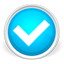
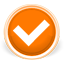
Finalized the final theme -- a nice forest green with tangy orange. Yay.........

diff --git a/Android/game-core/src/com/deengames/ilmica/screens/SetSelectionScreen.java b/Android/game-core/src/com/deengames/ilmica/screens/SetSelectionScreen.java
@@ -25,7 +25,7 @@ public class SetSelectionScreen extends Screen {
 		super.initialize();
 		
 		this.fadeOutImmediately();
-		this.addSprite("content/images/mainMenuBackground.jpg");
+		this.addSprite("content/images/mainBackground.jpg");
 		this.addSprite("content/images/choose-question-set.png");		
 		
 		String[] sets = DataHelper.getQuestionSetNames();
@@ -38,6 +38,7 @@ public class SetSelectionScreen extends Screen {
 			
 			t.setX(baseX);
 			t.setY(baseY + (VERTICAL_SPACE_BETWEEN_SETS * i));
+			t.setFontSize(24);
 			
 			t.setClickListener(new ClickListener() {
 				public void onClick(Clickable clicked) {

diff --git a/Android/game-core/src/com/deengames/ilmica/IlmicaGame.java b/Android/game-core/src/com/deengames/ilmica/IlmicaGame.java
@@ -34,8 +34,8 @@ import com.deengames.radiantwrench.utils.RadiantWrenchException;
 public class IlmicaGame extends Game implements ApplicationListener {
 	
 	public void create() {
-		//ScreenController.showScreen(new SplashScreen());
-		ScreenController.showScreen(new QuizScreen("Fundamentals of Tawheed 1.0"));
+		ScreenController.showScreen(new SplashScreen());
+		//ScreenController.showScreen(new QuizScreen("Fundamentals of Tawheed 1.0"));
 		super.create();
 	}
 }

diff --git a/Android/game-core/src/com/deengames/ilmica/screens/TitleScreen.java b/Android/game-core/src/com/deengames/ilmica/screens/TitleScreen.java
@@ -22,7 +22,7 @@ public class TitleScreen extends Screen {
 		super.initialize();
 		
 		this.fadeOutImmediately();
-		this.addSprite("content/images/mainMenuBackground.jpg");
+		this.addSprite("content/images/mainBackground.jpg");
 		this.addSprite("content/images/ilmica.png");
 		
 		ImageButton go = this.addImageButton("content/images/go-button.png");

diff --git a/Android/game-core/src/com/deengames/ilmica/screens/QuizScreen.java b/Android/game-core/src/com/deengames/ilmica/screens/QuizScreen.java
@@ -59,7 +59,7 @@ public class QuizScreen extends Screen {
 		super.initialize();
 		
 		this.fadeOutImmediately();
-		this.addSprite("content/images/mainMenuBackground.jpg");
+		this.addSprite("content/images/mainBackground.jpg");
 		
 		this._questionHeaderText = this.addText("");
 		this._questionHeaderText.setFontSize(24);
